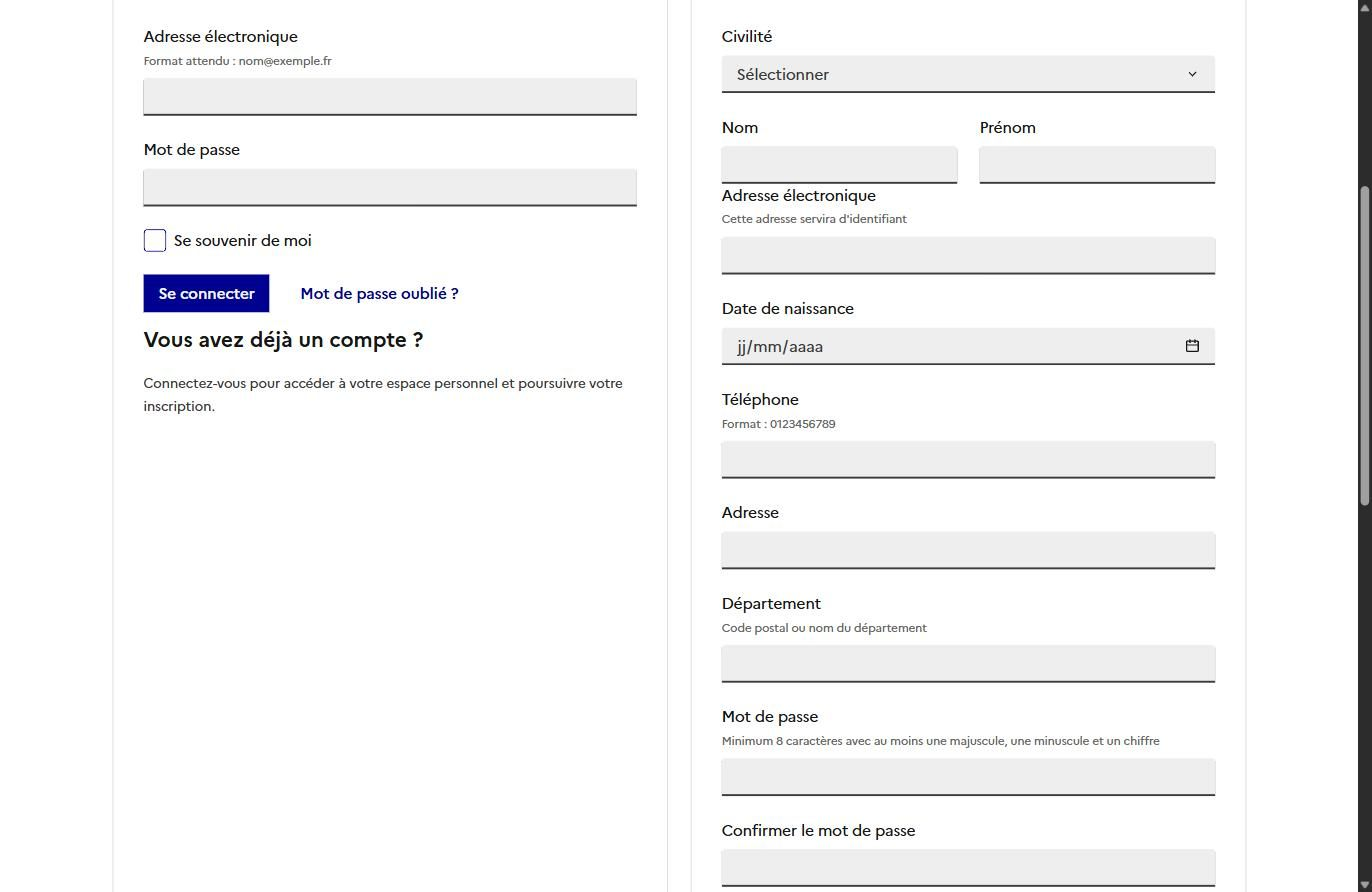
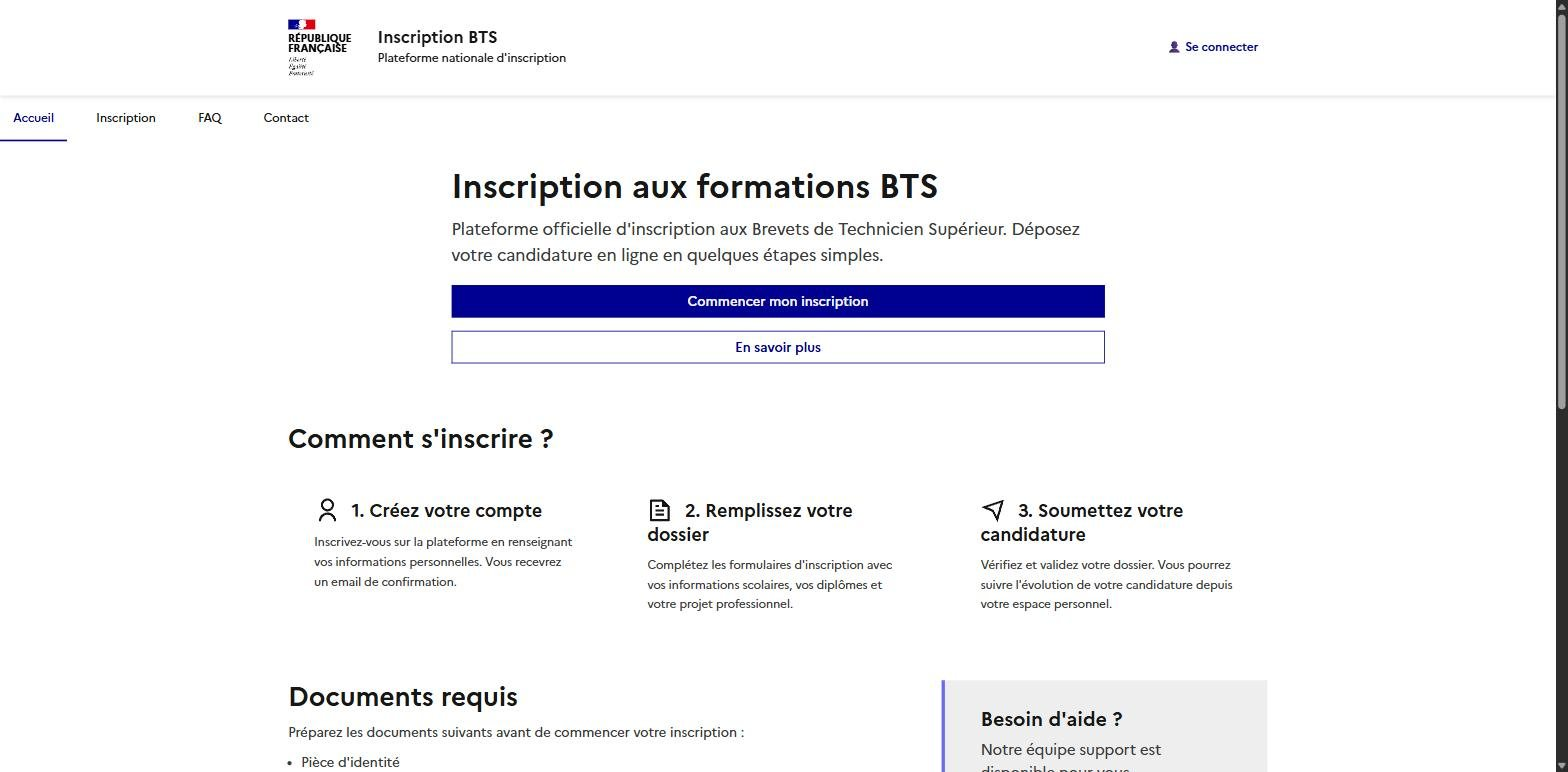
Remplace la 2e capture EasyBTS par la page d'accueil
La première montrait le menu + la page de connexion, la seconde
montrait le même formulaire scrollé. Remplacée par la vraie page
d'accueil (générée en créant le schéma Doctrine et en insérant
quelques spécialisations de test).

diff --git a/index.html b/index.html
@@ -242,7 +242,7 @@
 
             <div class="project-gallery">
               <img src="assets/images/easybts-1.jpg" alt="Menu et page de connexion de l'application EasyBTS, avec le Système de design de l'État" loading="lazy" width="480" height="300">
-              <img src="assets/images/easybts-2.jpg" alt="Formulaire d'inscription de l'application EasyBTS" loading="lazy" width="480" height="300">
+              <img src="assets/images/easybts-2.jpg" alt="Page d'accueil de l'application EasyBTS" loading="lazy" width="480" height="300">
             </div>
           </article>
 
